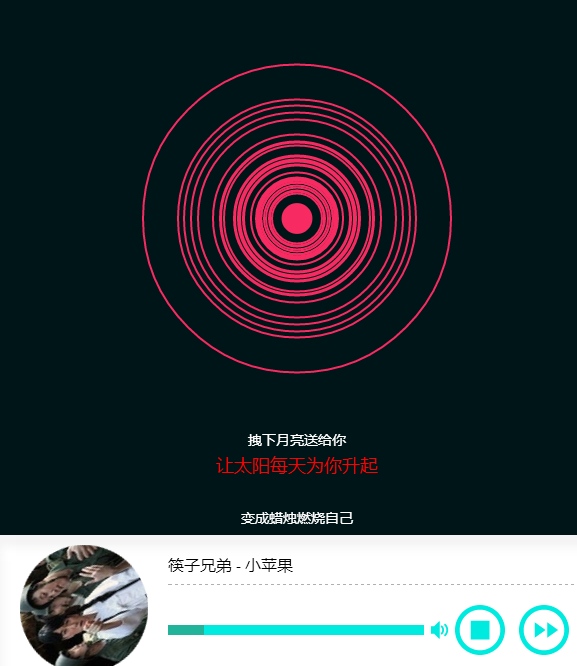
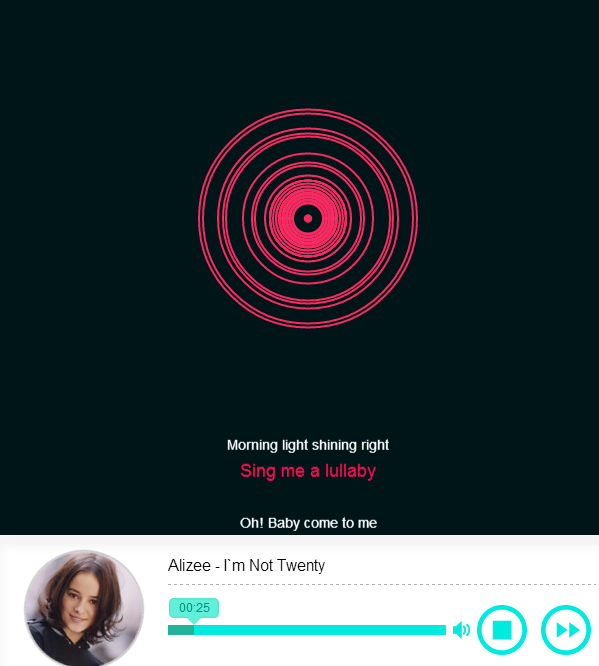
修复播放下一首bug
播放下一首时会重新异步加载新的音频地址，之前的加载还在请求中，并没有中断，这样加载完成后就会有多个音频源，播放就会重叠。

diff --git a/assets/js/player.js b/assets/js/player.js
@@ -38,8 +38,8 @@ var gint = null;
 var gout = null;
 
 //播放控制
-var isPlay = true;
-var isNext = false;
+var isPlay = false;
+var isNext = true;
 var isMoreColor = false;
 var playerBarMaskerDom_w = 0;
 
@@ -115,11 +115,13 @@ $(document).ready(function(evt){
 	nextDom.on('click', function(evt){
 		evt.preventDefault();
 		evt.stopPropagation();
+		if(isPlay && !isNext){
+			stopSound();
+			isNext = true;
+		}
 		hamp && hamp.request.abort();
-		stopSound();
 		//播放一下首歌曲
-		playSound();
-
+		playSound();		
 	});
 
 	/**
@@ -138,11 +140,18 @@ $(document).ready(function(evt){
 
 		//加载音频
 		getSong(songsURL, null, function(res){
+			//如果当前正在处于加载状态则直接
+			if(!isNext) { return; }
+			isNext = false;
+
 			//随机获取歌曲
 			song = res.song[Math.floor(Math.random() * res.song.length)];
 			//song = res.song[3]; //调式用
+			
+			//设置标题和头像
 			songNameDom.html(song.title);
 			headImage.attr('src', song.image);
+
 			hamp = new HTML5AudioPlayer(song.url, 'sound-wave', function(buffer, analyser){
 				//开始播放
 				start(this, buffer);
@@ -183,7 +192,8 @@ $(document).ready(function(evt){
 		//
 		//开始播放 
 		hamp.play(currentTime, false);
-		isPlay = true;
+		isPlay = true; //表示已播放
+		isNext = false; //表示已加载完毕
 
 		//显示当前播放时间
 		showPlayBarTip();
@@ -202,11 +212,16 @@ $(document).ready(function(evt){
 	 */
 	function stopSound(){
 		//停止音频输出
-		if(isPlay && analyserObj)
-			hamp && hamp.stop();
+		//if(isPlay && analyserObj)
+		hamp && hamp.stop();
+
+		//情况数据源信息
+		audioBuffer = null;
+		analyserObj = null;
 
 		//重置不可用状态样式
 		isPlay = false;
+		isNext = true;
 		lrcDom.html('');
 		playDom.css('fill', '#00EBDF');
 		playDom.find('use').attr('xlink:href', '#icon-play');
@@ -329,10 +344,10 @@ $(document).ready(function(evt){
 			if(!sint){
 				return false;
 			}
-        	eff || drawCircle();
+        	//eff || drawCircle();
         	//drawMeter();
         	//drawPoint();
-			//drawCirclePoint();
+			drawCirclePoint();
         }, time || 10);
 	
 	}
